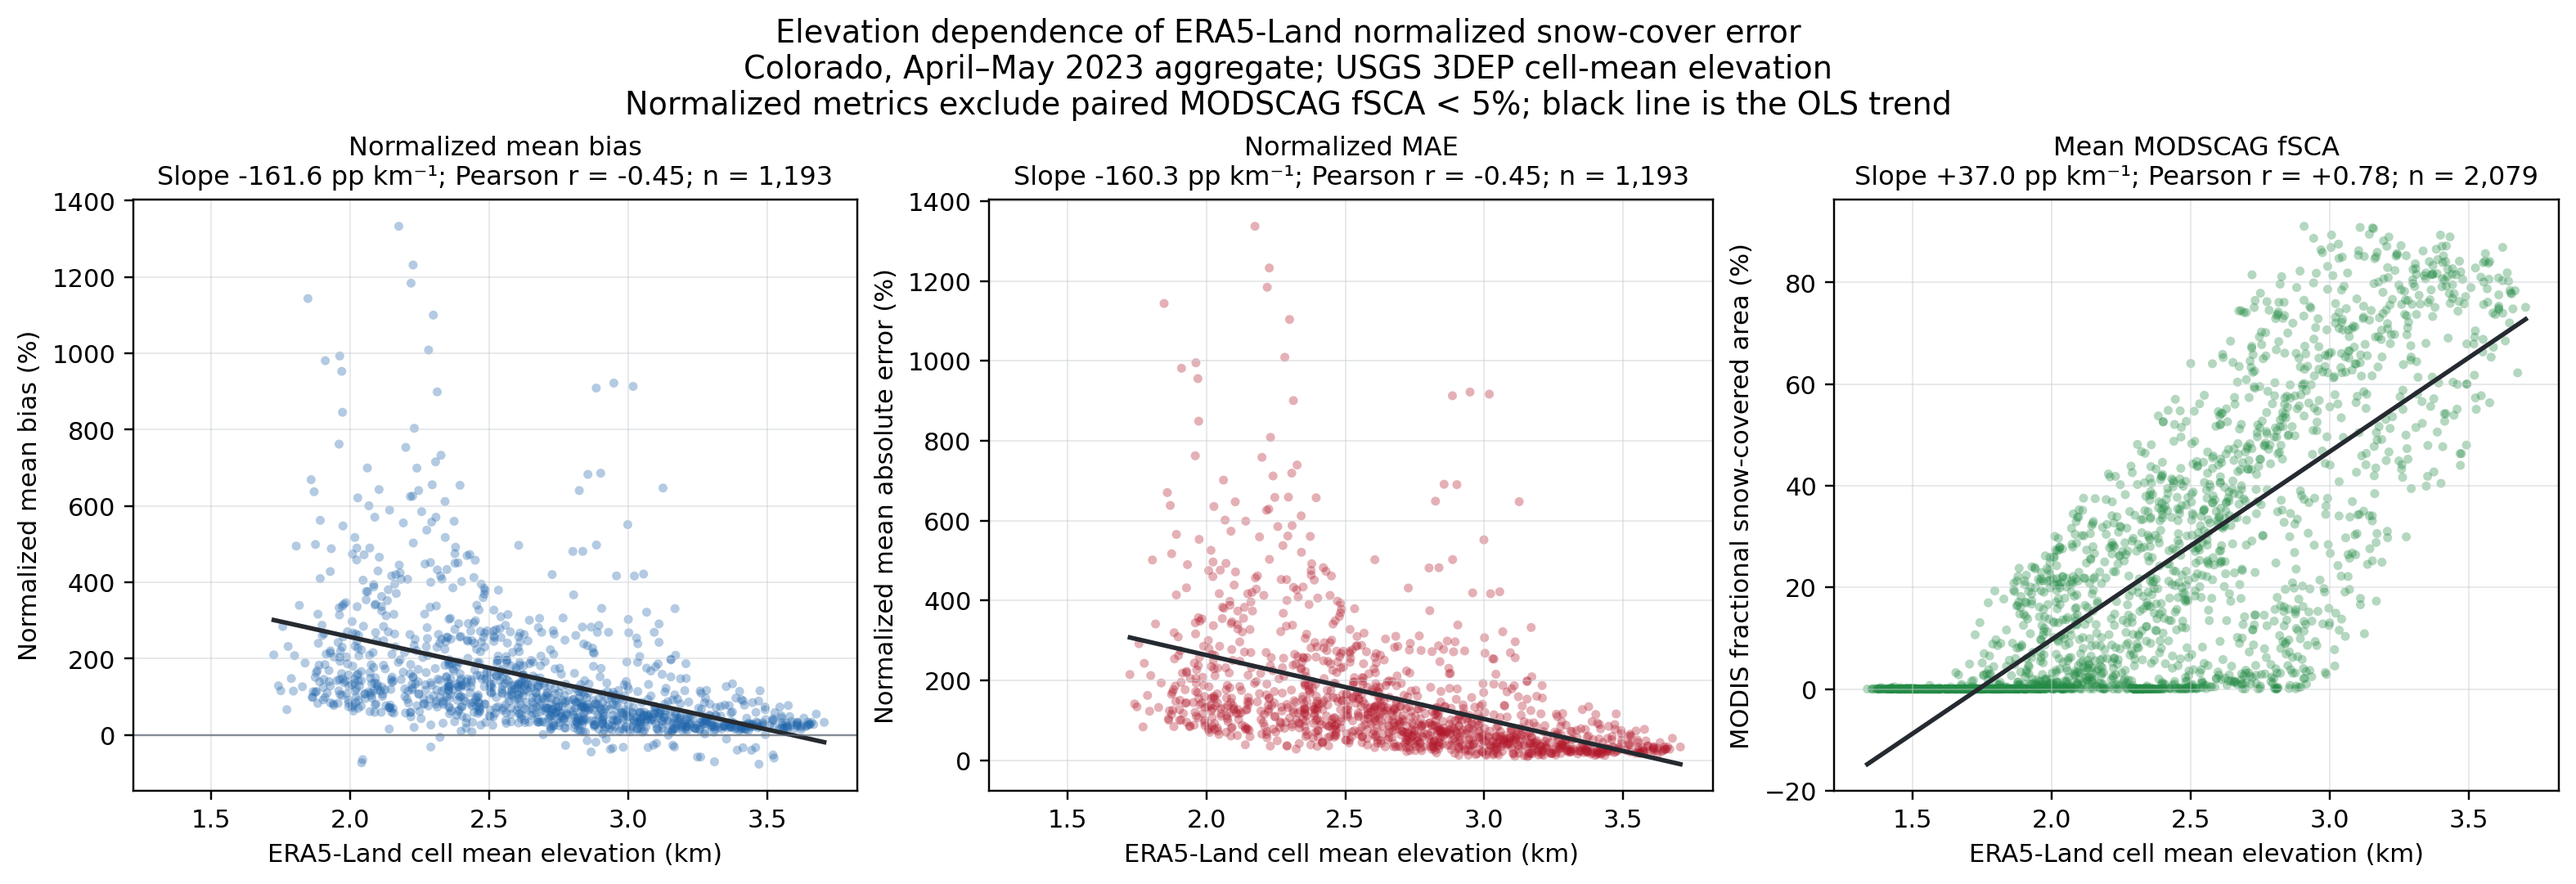
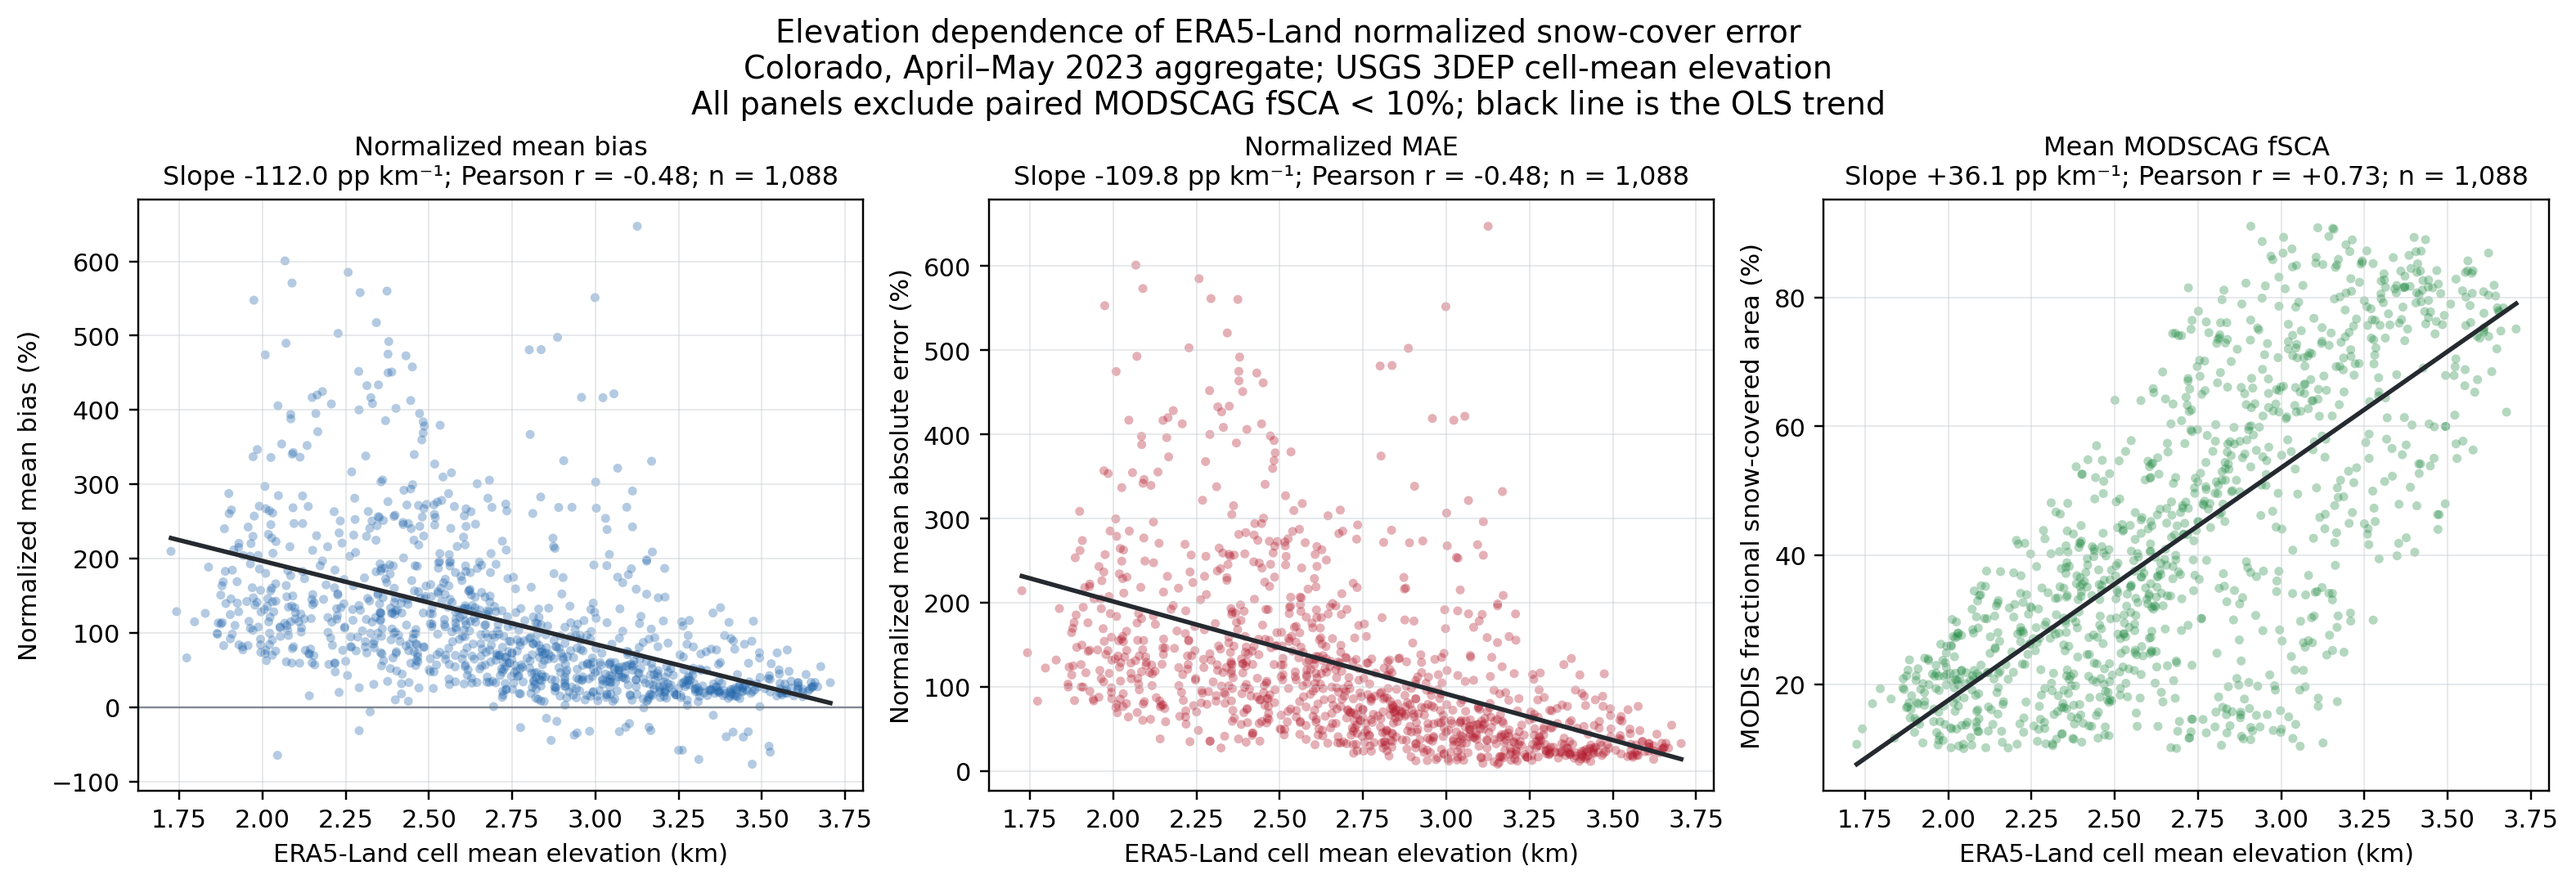
Mask low-MODSCAG ERA5-Land scatter cells

diff --git a/merra_modis_comparison/src/merra_modis_comparison/reanalysis_spatial_plotting.py b/merra_modis_comparison/src/merra_modis_comparison/reanalysis_spatial_plotting.py
@@ -36,6 +36,7 @@ MIN_MODIS_FSCA_PCT = 5.0
 NORMALIZED_BIAS_LIMIT_PCT = 120.0
 NORMALIZED_MAE_LIMIT_PCT = 140.0
 ELEVATION_ANALYSIS_MONTHS = ("April 2023", "May 2023")
+ELEVATION_MIN_MODIS_FSCA_PCT = 10.0
 
 
 @dataclass(frozen=True)
@@ -138,6 +139,7 @@ def reanalysis_normalized_metric_grid(
 def reanalysis_modis_fsca_grid(
     stats: ReanalysisStatsBlock,
     shape: tuple[int, int],
+    minimum_modis_fsca_pct: float | None = None,
 ) -> np.ndarray:
     """Return paired, pixel-day-weighted MODSCAG fSCA as percent by cell."""
 
@@ -151,6 +153,10 @@ def reanalysis_modis_fsca_grid(
         out=np.full(weights.shape, np.nan, dtype=np.float64),
         where=weights > 0,
     )
+    if minimum_modis_fsca_pct is not None:
+        if not 0 <= minimum_modis_fsca_pct <= 100:
+            raise ValueError("minimum MODSCAG fSCA must be between 0 and 100")
+        values[values < minimum_modis_fsca_pct] = np.nan
     return values.reshape(shape)
 
 
@@ -192,7 +198,10 @@ def write_reanalysis_elevation_dependency_plot(
         (
             "Normalized mean bias",
             reanalysis_normalized_metric_grid(
-                period_stats, "nmb_pct", grid.shape
+                period_stats,
+                "nmb_pct",
+                grid.shape,
+                minimum_modis_fsca_pct=ELEVATION_MIN_MODIS_FSCA_PCT,
             ).ravel(),
             "Normalized mean bias (%)",
             "#2166ac",
@@ -200,14 +209,21 @@ def write_reanalysis_elevation_dependency_plot(
         (
             "Normalized MAE",
             reanalysis_normalized_metric_grid(
-                period_stats, "nmae_pct", grid.shape
+                period_stats,
+                "nmae_pct",
+                grid.shape,
+                minimum_modis_fsca_pct=ELEVATION_MIN_MODIS_FSCA_PCT,
             ).ravel(),
             "Normalized mean absolute error (%)",
             "#b2182b",
         ),
         (
             "Mean MODSCAG fSCA",
-            reanalysis_modis_fsca_grid(period_stats, grid.shape).ravel(),
+            reanalysis_modis_fsca_grid(
+                period_stats,
+                grid.shape,
+                minimum_modis_fsca_pct=ELEVATION_MIN_MODIS_FSCA_PCT,
+            ).ravel(),
             "MODIS fractional snow-covered area (%)",
             "#238b45",
         ),
@@ -261,8 +277,8 @@ def write_reanalysis_elevation_dependency_plot(
         f"Elevation dependence of {spec.display_name} normalized snow-cover error\n"
         "Colorado, April–May 2023 aggregate; USGS 3DEP cell-mean "
         "elevation\n"
-        "Normalized metrics exclude paired MODSCAG fSCA < 5%; black line is "
-        "the OLS trend",
+        "All panels exclude paired MODSCAG fSCA < 10%; black line is the OLS "
+        "trend",
         fontsize=12.5,
     )
     _save_figure(figure, output)

diff --git a/merra_modis_comparison/tests/test_reanalysis_spatial_plotting.py b/merra_modis_comparison/tests/test_reanalysis_spatial_plotting.py
@@ -102,6 +102,20 @@ def test_reanalysis_modis_fsca_grid_uses_paired_pixel_day_weights():
     assert values.shape == grid.shape
     assert np.allclose(values, 50)
 
+    low_snow = ReanalysisStatsBlock.empty(grid.size)
+    update_reanalysis_stats(
+        low_snow,
+        np.full(grid.shape, 0.12),
+        np.full(grid.shape, 0.08),
+        np.full(grid.shape, 9),
+        np.full(grid.shape, 10),
+        np.full(grid.shape, 7),
+    )
+    masked = reanalysis_modis_fsca_grid(
+        low_snow, grid.shape, minimum_modis_fsca_pct=10
+    )
+    assert np.isnan(masked).all()
+
 
 def test_era5_land_fourteen_panel_spatial_plot(tmp_path):
     config = ReanalysisRunConfig(

diff --git a/merra_modis_comparison/README.md b/merra_modis_comparison/README.md
@@ -281,7 +281,8 @@ contains the 2,091 ERA5-Land 0.1° cells. If its slightly wider DEM is absent, r
 `./download_era5_land_coarse_dem.zsh` first. The elevation figure aggregates
 April–May 2023 sufficient statistics and plots NMB, NMAE, and paired MODSCAG
 fSCA against 0.1° cell-mean elevation, with OLS slopes and Pearson correlations.
-Normalized metrics use the same 5% paired-MODSCAG mask. The launcher writes:
+All three scatter panels exclude cells where aggregate paired MODSCAG fSCA is
+below 0.10 (10%). The launcher writes:
 
 - `results/era5_land_wy2023_nov_may_spatial_bias_mae.png`
 - `results/era5_land_wy2023_apr_may_elevation_dependency.png`
@@ -373,7 +374,7 @@ of freedom for each cell.
 | `results/era5_land_modis_water_year_2010_2023_monthly_checkpoints/` | ERA5-Land resumable monthly sufficient-statistic CSVs |
 | `results/era5_land_modis_water_year_2010_2023_{overall,pixel}_stats.csv` | ERA5-Land monthly/seasonal domain and 0.1° cell statistics |
 | `results/era5_land_wy2023_nov_may_spatial_bias_mae.png` | ERA5-Land WY2023 November–May NMB and NMAE maps; paired MODSCAG fSCA ≥ 5% |
-| `results/era5_land_wy2023_apr_may_elevation_dependency.png` | ERA5-Land April–May 2023 NMB, NMAE, and paired MODSCAG fSCA versus cell-mean elevation |
+| `results/era5_land_wy2023_apr_may_elevation_dependency.png` | ERA5-Land April–May 2023 NMB, NMAE, and paired MODSCAG fSCA versus cell-mean elevation; MODSCAG fSCA ≥ 0.10 |
 
 Daily MODSCAG granules and model subsets are never cached. The ERA monthly
 checkpoints also retain weighted MODSCAG and error sums, allowing bias, MAE,

diff --git a/merra_modis_comparison/plan/ERA5_ERA5_LAND_PLAN.md b/merra_modis_comparison/plan/ERA5_ERA5_LAND_PLAN.md
@@ -84,7 +84,7 @@ Status: **completed 2026-08-26**
 - Output: `results/era5_land_wy2023_nov_may_spatial_bias_mae.png`.
 - The companion elevation artifact merges only the April and May 2023
   sufficient-statistic checkpoints, then plots period-aggregate NMB, NMAE, and
-  paired MODSCAG fSCA against USGS 3DEP cell-mean elevation. NMB/NMAE use the
-  same 5% paired-MODSCAG mask and no daily or raw model field is reprocessed or
-  saved.
+  paired MODSCAG fSCA against USGS 3DEP cell-mean elevation. All three panels
+  exclude cells where aggregate paired MODSCAG fSCA is below 0.10 (10%). No
+  daily or raw model field is reprocessed or saved.
 - Output: `results/era5_land_wy2023_apr_may_elevation_dependency.png`.
